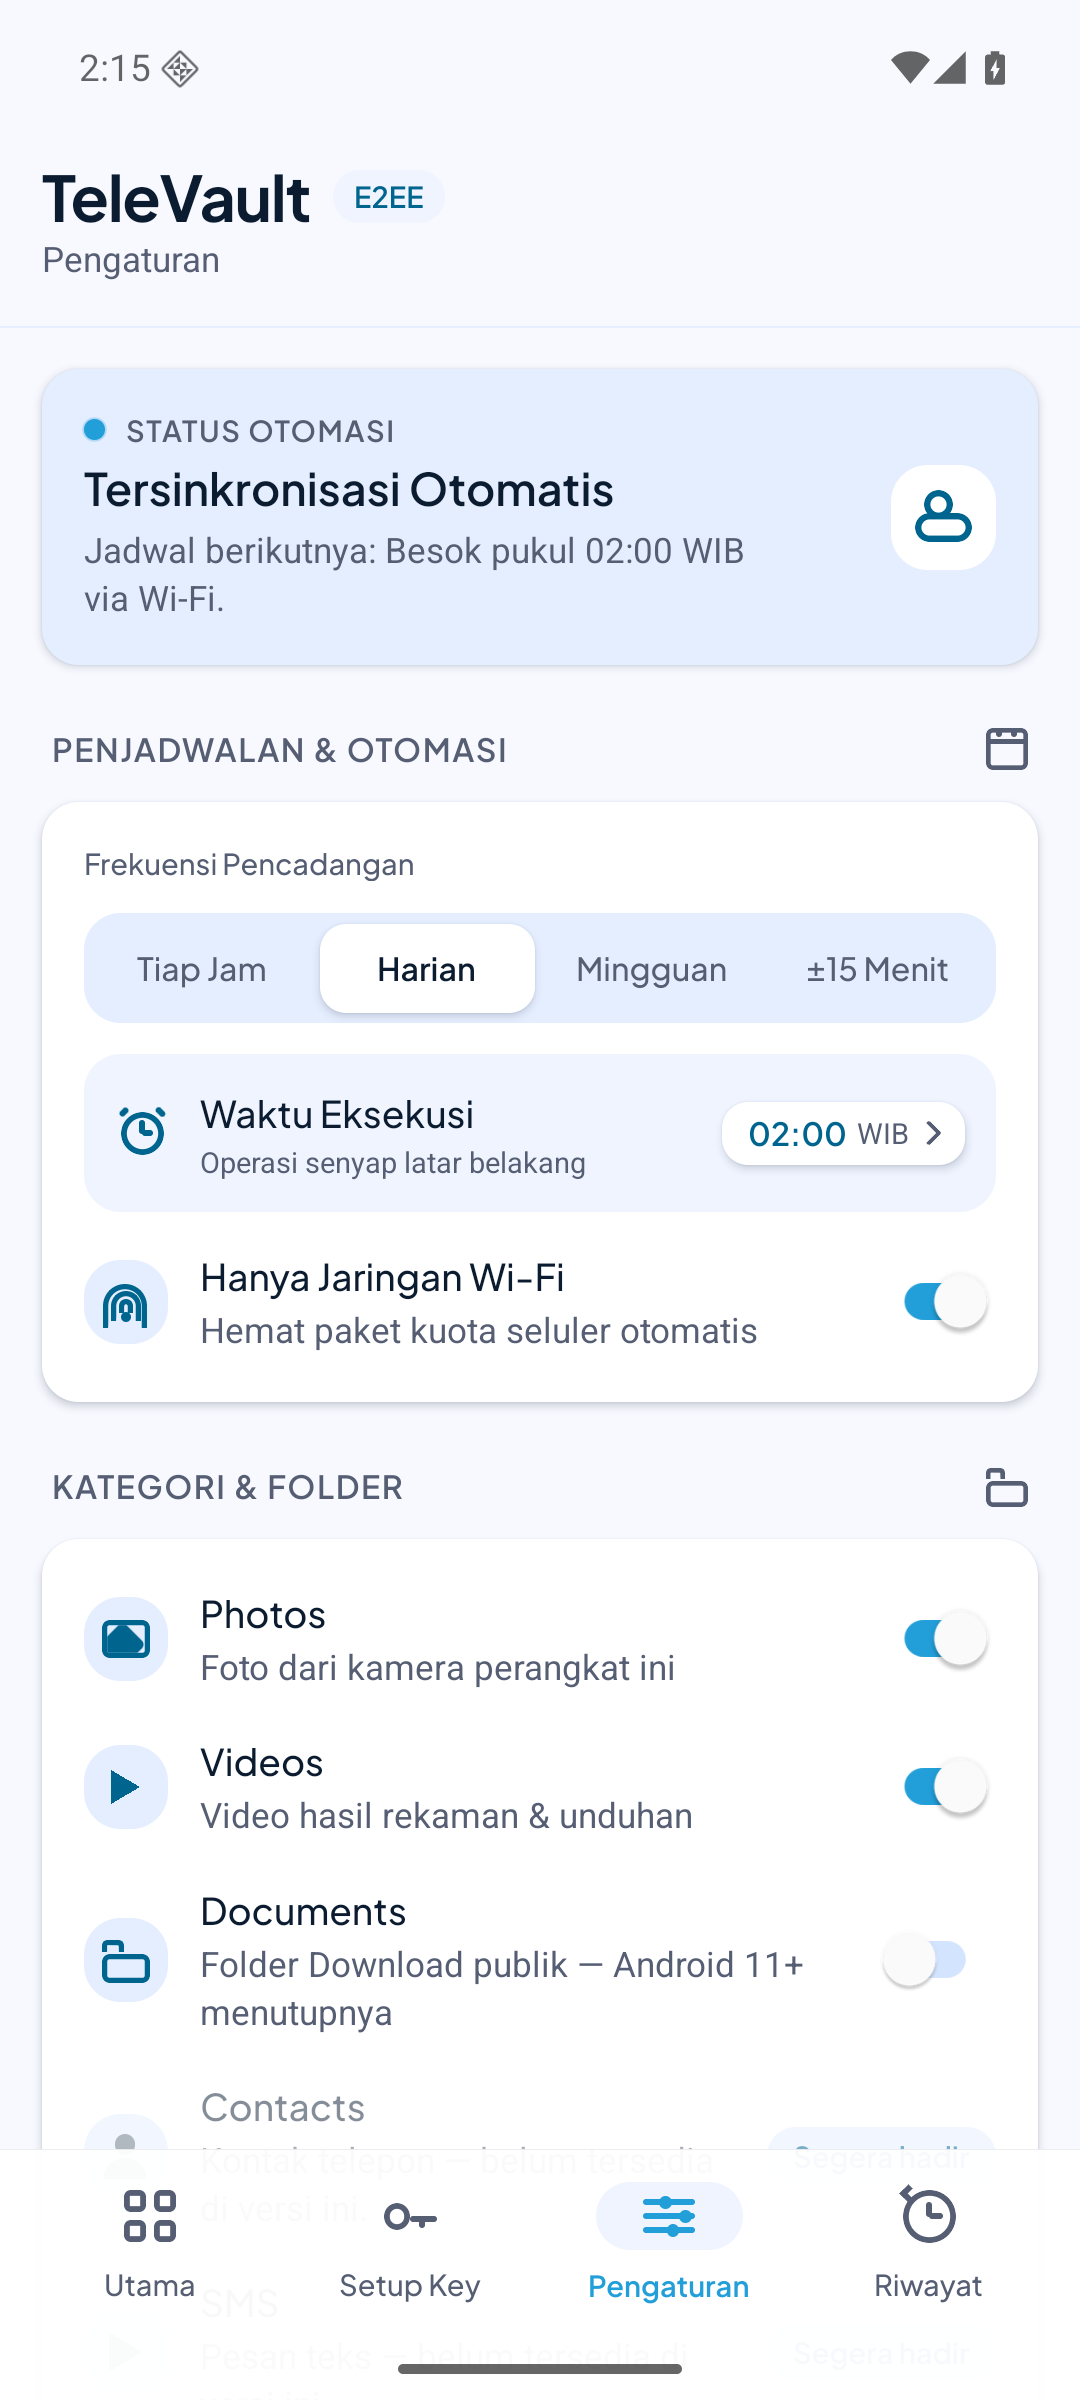
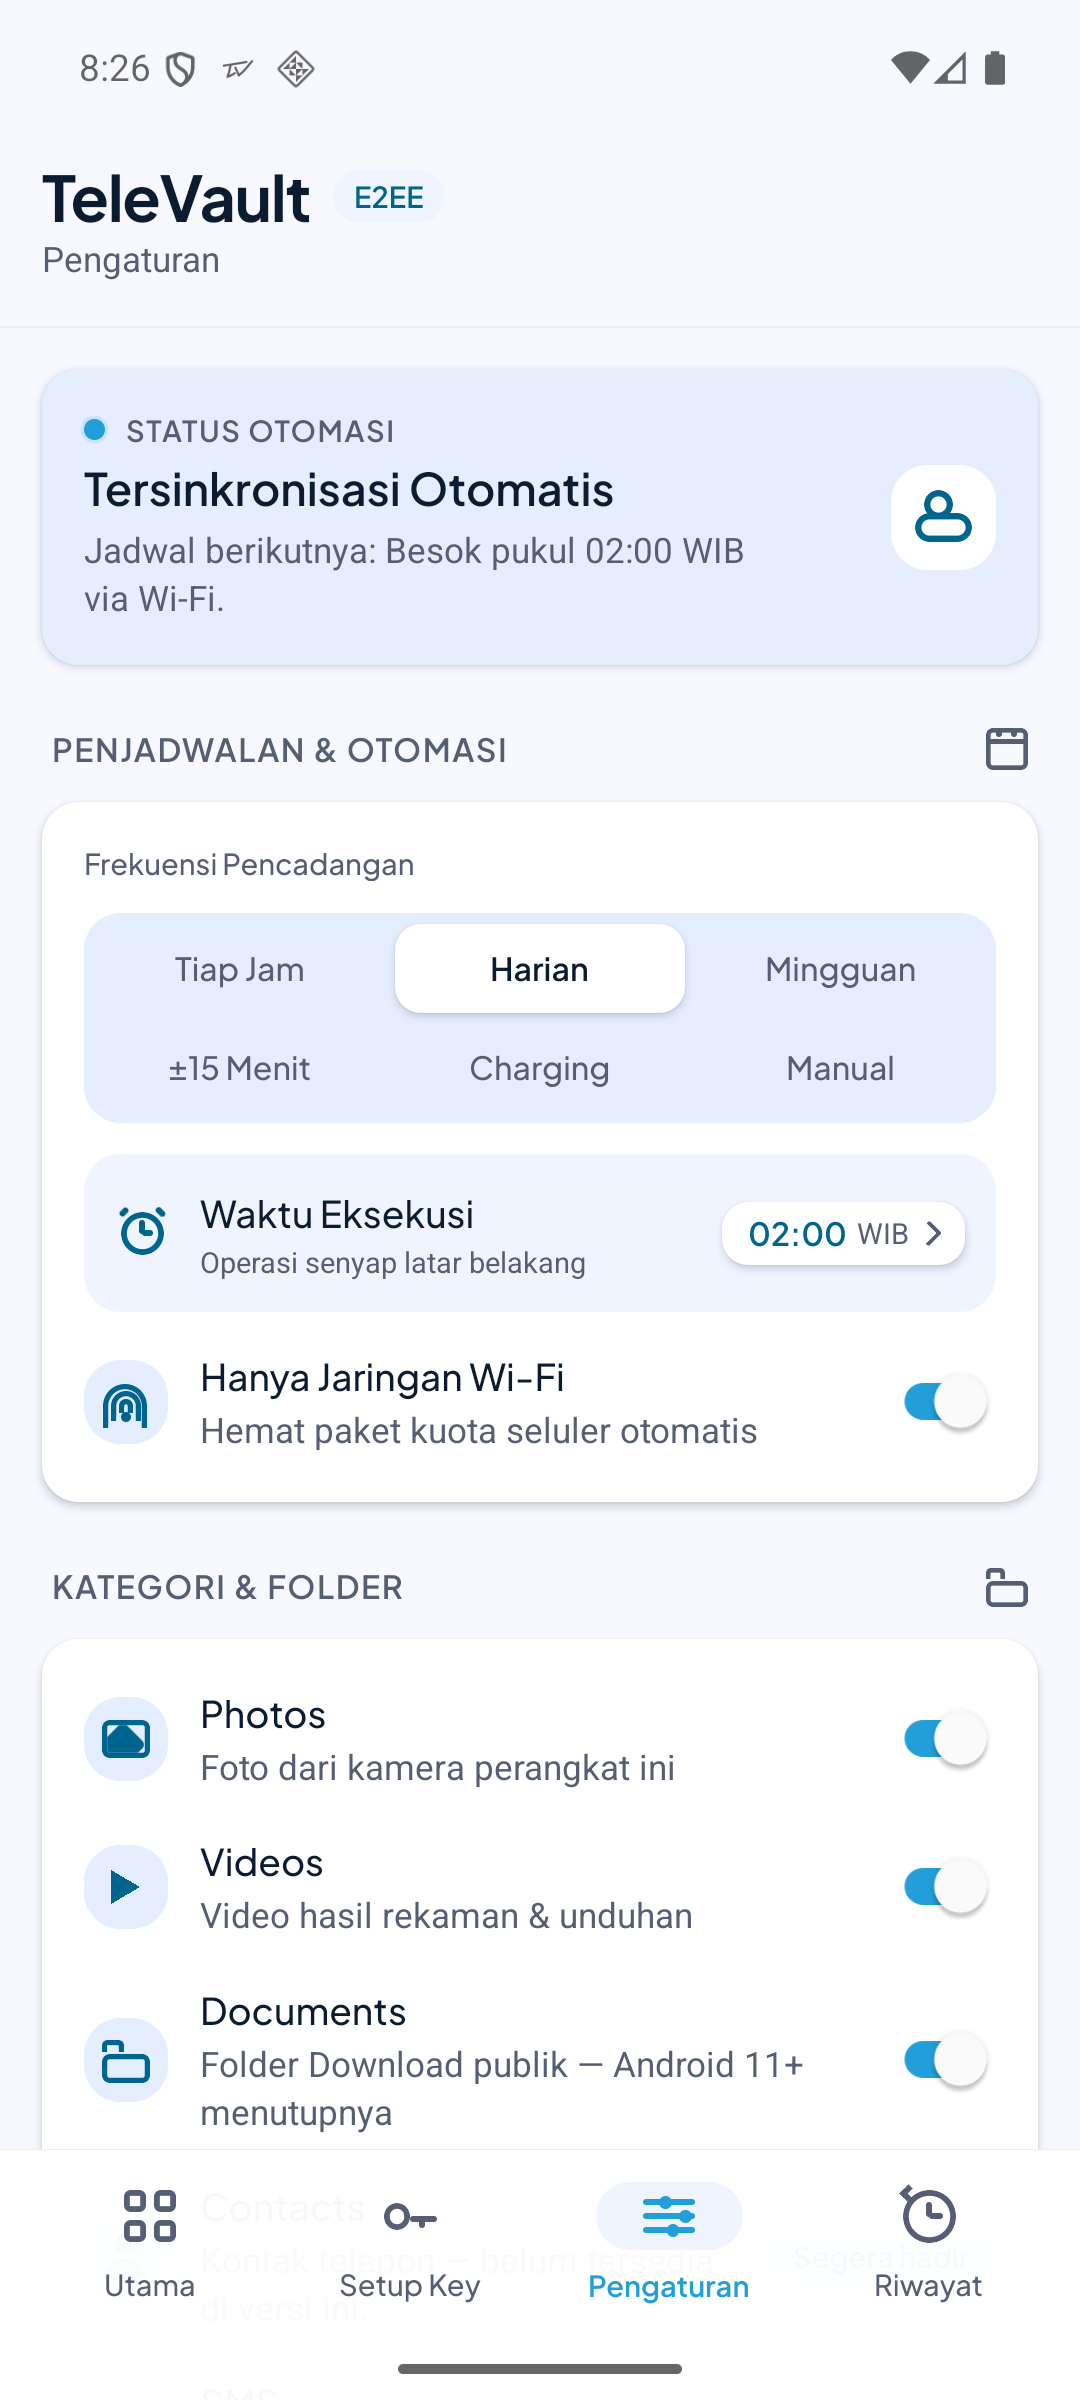
docs(readme): jadwal mencakup charging dan manual, tangkapan layar Pengaturan baru
Klaim empat mode sekarang benar: pilihan Charging dan Manual ada di layar
Pengaturan, dan tangkapan layar Pengaturan memakai build dengan enam
pilihan tersebut.

diff --git a/README.md b/README.md
@@ -45,7 +45,7 @@ Cocok untuk yang ingin backup rutin tanpa menyewa storage: Telegram sudah jadi t
 
 ### Penjadwalan dan latar belakang
 
-- **Frekuensi**: Tiap Jam, ±15 Menit, Mingguan, atau Harian pada jam pilihan (default 02:00).
+- **Frekuensi**: Tiap Jam, ±15 Menit, Mingguan, Harian pada jam pilihan (default 02:00), hanya saat charging, atau manual.
 - **Jeda kapan saja**: tombol Jeda di layar Utama menghentikan jadwal tanpa menghapus pengaturan.
 - **Alarm eksak**: jadwal jam tertentu memakai alarm bentuk alarm jam, jadi tidak digeser Doze.
 - **Tahan reboot**: alarm dipasang ulang setelah HP reboot, jam diubah, atau zona waktu berpindah.
@@ -184,9 +184,8 @@ Checklist lengkap ada di [`docs/release-checklist.md`](docs/release-checklist.md
 - **Documents kosong di Android 11+**: sistem menutup folder publik, kategori ini membaca 0 berkas.
 - **Foreground service dibatasi di Android 15+**: backup yang berjalan lebih dari sekitar 6 jam bisa dihentikan sistem.
 - **Jadwal global, bukan per folder**: satu jadwal untuk semua kategori terpilih.
-- **Mode manual dan hanya-saat-charging belum ada di UI**: mesin penjadwal mendukung keduanya (`ScheduleMode.MANUAL`, `CHARGING`), tapi belum ada kontrol untuk memilihnya. Saat ini Manual hanya berlaku untuk instalasi yang belum pernah memilih frekuensi.
 - **Jam tertentu butuh izin alarm**: kalau izin dicabut, jadwal turun ke alarm tidak eksak.
-- **Mode interval tidak eksak**: lewat JobScheduler, jadi Doze dan pembatasan merek bisa menundanya.
+- **Mode interval dan charging tidak eksak**: keduanya lewat JobScheduler, jadi Doze dan pembatasan merek bisa menundanya.
 - **Restore one-tap butuh database lokal**: `file_id` potongan disimpan di SQLite, hilang kalau app dihapus.
 - **Autostart tidak bisa diaktifkan dari app**: Android tidak menyediakan API-nya, app hanya membuka layar setelan merek.
 - **APK debug butuh Metro**: hanya build release yang membundel JavaScript.
